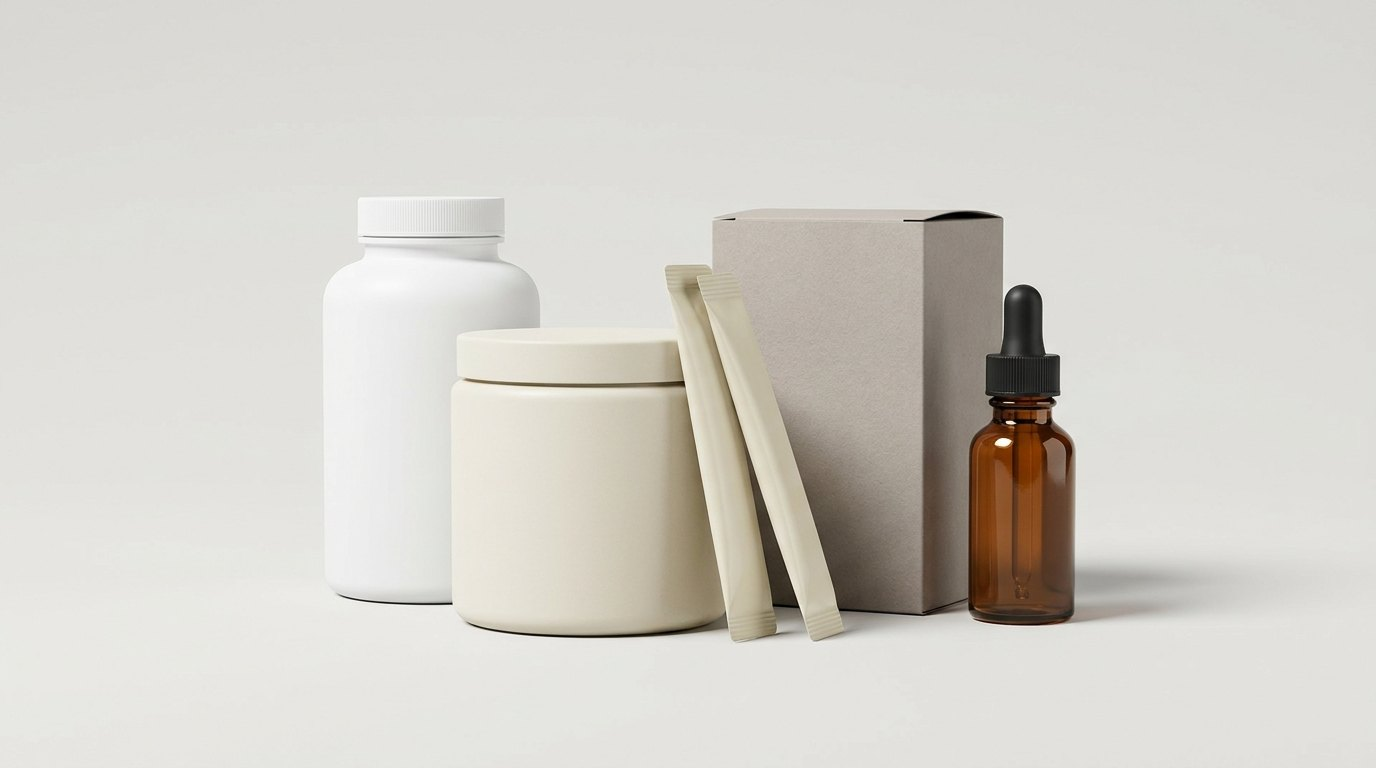
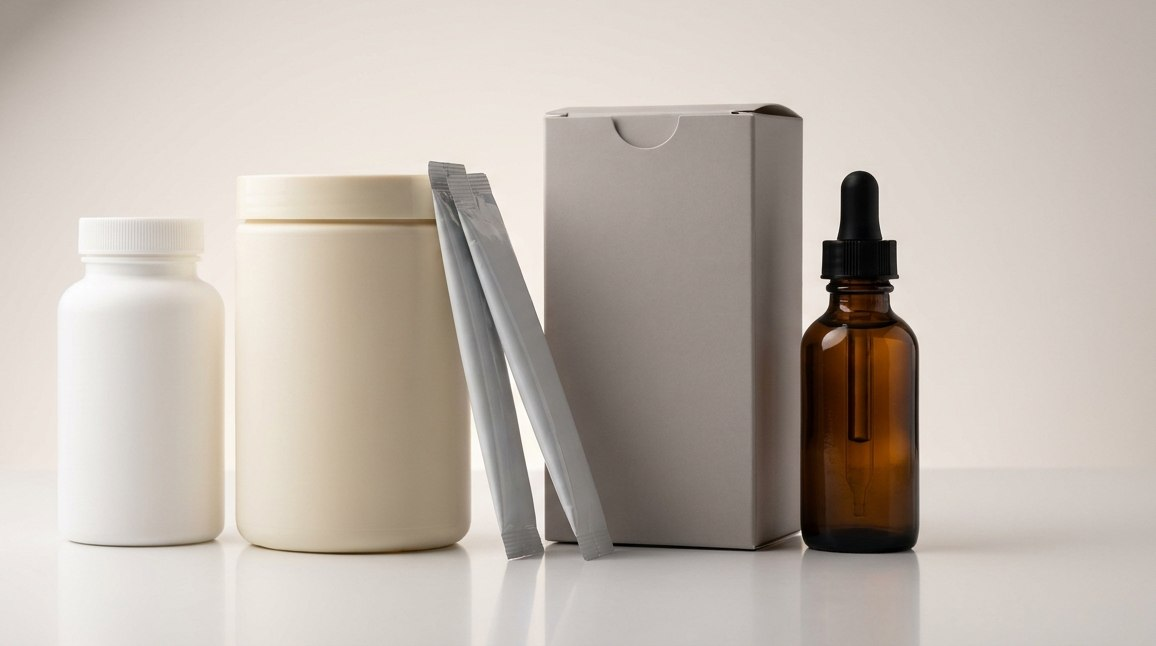
Full audit: facts, journey, redundancy, imagery
FACTS. Three problems found by checking every chip against the source
spec and removed:
- '1 oz 76mm pipette' and '2 oz 91mm pipette' were invented; no pipette
  dimensions exist in anything Namrata supplied.
- '20mm neck' and '28mm neck' came from Cary Company product pages she
  linked as SHAPE references for bullet bottles, not as F.A.M.E.
  specs; presenting them as our finishes was over-reach.
- Glass capsule bottles were listed as discrete 150/200/300/400cc when
  the spec states a 150cc to 400cc range; 200 and 300 were invented.
Also softened an inferred fulfilment-destination claim and pulled the
compliance line back to the sources' own wording.

JOURNEY. Labels sat after Assembly & tooling, contradicting the page's
own opening promise of Fill, Label, Kit. Labels is now 05 and
Assembly & tooling 06, so the page follows the order it announces.
Background alternation rebalanced across the new order.

REDUNDANCY. The page carried two three-step journeys: section 01 and
a second one inside Labels. The Labels sequence loses its step
numbering and paragraphs and becomes a plain visual, blank bottle to
labeled to retail-ready.

IMAGERY. Core studio set reshot with real photographic craft:
luminous gradient backdrops, rim light separating each object,
genuine refraction in the cobalt and amber glass, foil sheen on sticks
and sachets, shallow depth of field. Visible softboxes cropped from
three frames and the bottle lineup re-rolled with caps on. New URLs
[…]

diff --git a/packaging/index.html b/packaging/index.html
@@ -284,13 +284,13 @@ a{color:inherit;} :focus-visible{outline:2px solid var(--teal);outline-offset:3p
   <a href="#formats"><span style="color:var(--teal-deep);margin-right:.5em">02</span>Formats</a>
   <a href="#custom"><span style="color:var(--teal-deep);margin-right:.5em">03</span>Go Custom</a>
   <a href="#concepts"><span style="color:var(--teal-deep);margin-right:.5em">04</span>Concepts</a>
-  <a href="#services"><span style="color:var(--teal-deep);margin-right:.5em">05</span>Assembly &amp; Tooling</a>
-  <a href="#labels"><span style="color:var(--teal-deep);margin-right:.5em">06</span>Labels</a>
+  <a href="#labels"><span style="color:var(--teal-deep);margin-right:.5em">05</span>Labels</a>
+  <a href="#services"><span style="color:var(--teal-deep);margin-right:.5em">06</span>Assembly &amp; Tooling</a>
   <a href="#next"><span style="color:var(--teal-deep);margin-right:.5em">07</span>Next Step</a>
 </div></nav>
 
 <section class="coverhero">
-  <img src="../img/sd-hero.jpg" alt="Unbranded supplement packaging arranged in a studio">
+  <img src="../img/sd-hero.jpg?v=3" alt="Unbranded supplement packaging arranged in a studio">
   <div class="ch-ov"></div>
   <div class="ch-cap">
     <div class="wrap">
@@ -322,8 +322,8 @@ a{color:inherit;} :focus-visible{outline:2px solid var(--teal);outline-offset:3p
     </div>
     <div class="steps">
       <div class="step"><span class="sn num">01</span><h3 class="h3">Fill &amp; seal</h3><p class="body">Six stock formats and custom molds, filled to your count in capsules, tablets, gummies, powders or liquids. Induction-sealed as standard: tamper-evident and leakproof, with pour-on lids and flip-tops where the product suits them.</p></div>
-      <div class="step"><span class="sn num">02</span><h3 class="h3">Label &amp; check</h3><p class="body">Print-ready artwork from you, or built with our design team. Supplement Facts panel, allergen statements and claim wording are reviewed against labeling rules before anything prints.</p></div>
-      <div class="step"><span class="sn num">03</span><h3 class="h3">Kit &amp; ship</h3><p class="body">Cartons, printed inserts and multi-pack kits assembled, then fulfilled to retail, marketplace or your own warehouse, on one purchase order.</p></div>
+      <div class="step"><span class="sn num">02</span><h3 class="h3">Label &amp; check</h3><p class="body">Print-ready artwork from you, or built with our design team. Panels are reviewed against supplement labeling requirements before anything prints.</p></div>
+      <div class="step"><span class="sn num">03</span><h3 class="h3">Kit &amp; ship</h3><p class="body">Cartons, printed inserts and multi-pack kits assembled, then fulfilled, on one purchase order.</p></div>
     </div>
   </div>
 </section>
@@ -338,11 +338,11 @@ a{color:inherit;} :focus-visible{outline:2px solid var(--teal);outline-offset:3p
 
     <div>
       <div class="ftabs" role="tablist" aria-label="Packaging formats" id="ftabs">
-        <button class="ftab" role="tab" aria-selected="true" data-f="bottles"><img src="../img/sd-bottles-color.jpg" alt="Supplement bottles in the stock colour range"><span>Bottles</span></button>
-        <button class="ftab" role="tab" aria-selected="false" data-f="liquids"><img src="../img/sd-liquids.jpg" alt="Amber glass dropper bottles and a white bullet bottle"><span>Liquids</span></button>
-        <button class="ftab" role="tab" aria-selected="false" data-f="jars"><img src="../img/sd-jars.jpg" alt="Supplement powder jars in ascending sizes"><span>Jars</span></button>
-        <button class="ftab" role="tab" aria-selected="false" data-f="sticks"><img src="../img/sd-sticks.jpg" alt="Powder stick packs in a diagonal row"><span>Stick packs</span></button>
-        <button class="ftab" role="tab" aria-selected="false" data-f="sachets"><img src="../img/sd-sachets.jpg" alt="Square sachet packets in an offset grid"><span>Sachets</span></button>
+        <button class="ftab" role="tab" aria-selected="true" data-f="bottles"><img src="../img/sd-bottles-color.jpg?v=3" alt="Supplement bottles in the stock colour range"><span>Bottles</span></button>
+        <button class="ftab" role="tab" aria-selected="false" data-f="liquids"><img src="../img/sd-liquids.jpg?v=3" alt="Amber glass dropper bottles and a white bullet bottle"><span>Liquids</span></button>
+        <button class="ftab" role="tab" aria-selected="false" data-f="jars"><img src="../img/sd-jars.jpg?v=3" alt="Supplement powder jars in ascending sizes"><span>Jars</span></button>
+        <button class="ftab" role="tab" aria-selected="false" data-f="sticks"><img src="../img/sd-sticks.jpg?v=3" alt="Powder stick packs in a diagonal row"><span>Stick packs</span></button>
+        <button class="ftab" role="tab" aria-selected="false" data-f="sachets"><img src="../img/sd-sachets.jpg?v=3" alt="Square sachet packets in an offset grid"><span>Sachets</span></button>
         <button class="ftab" role="tab" aria-selected="false" data-f="pouches"><img src="../img/sd-pouches.jpg" alt="Stand-up pouches with capsules"><span>Pouches</span></button>
       </div>
 
@@ -371,7 +371,7 @@ a{color:inherit;} :focus-visible{outline:2px solid var(--teal);outline-offset:3p
               </div>
             </div>
             <div><span class="spec-k" style="color:var(--muted)">Glass capsule bottles</span>
-              <div class="chips" style="margin-top:8px"><span class="chip hot">150cc</span><span class="chip hot">200cc</span><span class="chip hot">300cc</span><span class="chip hot">400cc</span></div>
+              <div class="chips" style="margin-top:8px"><span class="chip hot">150cc &#8211; 400cc</span></div>
               <p class="small" style="margin-top:8px">Amber, blue and transparent; frosted sourceable.</p>
             </div>
             <p class="specnote">Closures: cap with induction seal as standard, sealed, leakproof and tamper-evident. Pour-on lids and flip-tops where the product suits them. Lids ribbed or smooth-top, white or black; lid sizes vary with bottle size.</p>
@@ -398,7 +398,7 @@ a{color:inherit;} :focus-visible{outline:2px solid var(--teal);outline-offset:3p
             <p class="body" style="margin:0">Small-volume liquids run in pure glass droppers; larger volumes run in HDPE bullets. PET is deliberately not used for dropper applications.</p>
             <div><span class="spec-k" style="color:var(--muted)">Glass droppers</span>
               <div class="chips" style="margin-top:8px">
-                <span class="chip hot">1/2 oz</span><span class="chip hot">1 oz &#183; 76mm pipette</span><span class="chip hot">2 oz &#183; 91mm pipette</span><span class="chip hot">4 oz</span>
+                <span class="chip hot">1/2 oz</span><span class="chip hot">1 oz</span><span class="chip hot">2 oz</span><span class="chip hot">4 oz</span>
               </div>
             </div>
             <div><span class="spec-k" style="color:var(--muted)">Glass colors</span>
@@ -411,7 +411,7 @@ a{color:inherit;} :focus-visible{outline:2px solid var(--teal);outline-offset:3p
             </div>
             <div><span class="spec-k" style="color:var(--muted)">HDPE bullets</span>
               <div class="chips" style="margin-top:8px">
-                <span class="chip">1 oz &#8211; 32 oz range</span><span class="chip hot">2 oz bullet &#183; 20mm neck</span><span class="chip hot">16 oz regular</span><span class="chip hot">32 oz bullet &#183; 28mm neck</span>
+                <span class="chip">1 oz &#8211; 32 oz range</span><span class="chip hot">2 oz bullet</span><span class="chip hot">16 oz</span><span class="chip hot">32 oz</span>
               </div>
             </div>
             <p class="specnote">Styles: Boston round and bullet, including the specialized 2 oz bullet. Closures: cap with induction seal as standard, sealed, leakproof and tamper-evident. Pour-on lids and flip-tops sourceable.</p>
@@ -557,39 +557,20 @@ a{color:inherit;} :focus-visible{outline:2px solid var(--teal);outline-offset:3p
   </div>
 </section>
 
-<!-- 05 SERVICES -->
-<section class="sec" id="services">
-  <div class="wrap stack">
-    <div class="sec-head">
-      <div><span class="lab">05 &#183; What we do with it</span><h2 class="h2">Assembly, sourcing and tooling.</h2></div>
-      <p class="body">The parts of packaging that usually mean finding a second vendor.</p>
-    </div>
-
-    <div class="grid g4">
-      <div class="cellbox"><span class="lab">Custom kitting</span><div class="h4">5 to 30 packs per kit</div><p class="small">Multi-component kits: packs or travel cylinders boxed together with your printed inserts.</p></div>
-      <div class="cellbox tint"><span class="lab">Sourcing</span><div class="h4">We find it, you brand it</div><p class="small">Specialist components sourced for you rather than supplied by you: a particular bottle style, frosted glass, an unusual color. You should not have to run a procurement project to launch a SKU.</p></div>
-      <div class="cellbox"><span class="lab">Custom tooling</span><div class="h4">Widths 1.5&#8221;&#8211;4&#8221;, built for you</div><p class="small">Forming widths between 1.5&#8221; and 4&#8221; for stick packs and sachets. A one-time cost that only pays back at volume, and we will tell you when your run is too small to justify it.</p></div>
-      <div class="cellbox tint"><span class="lab">Eco-conscious</span><div class="h4">Recycled &amp; recyclable first</div><p class="small">Recycled and recyclable materials prioritized across the line.</p></div>
-    </div>
-
-  </div>
-</section>
-
-<!-- 05 LABELS -->
 <section class="sec alt" id="labels">
   <div class="wrap stack">
     <div class="sec-head">
-      <div><span class="lab">06 &#183; Labels</span><h2 class="h2">Your label, start to finish.</h2></div>
+      <div><span class="lab">05 &#183; Labels</span><h2 class="h2">Your label, start to finish.</h2></div>
       <p class="body">Bring finished artwork or start from nothing. Either way the label is printed, applied and checked here.</p>
     </div>
 
     <div class="imgcards">
       <div class="icard"><div class="fig"><img src="../img/sd-lbl-blank.jpg" alt="A blank unlabeled white supplement bottle"></div>
-        <div class="cap"><span class="lab">Step 1</span><div class="h4">Select the container</div><p class="small">Choose from the stock bottles, jars and formats above.</p></div></div>
+        <div class="cap"><div class="h4">Blank stock bottle</div></div></div>
       <div class="icard"><div class="fig"><img src="../img/sd-lbl-labeled.jpg" alt="The same bottle wearing a finished wraparound label"></div>
-        <div class="cap"><span class="lab">Step 2</span><div class="h4">Design the label</div><p class="small">Bring finished artwork, or start from nothing. Both routes are below.</p></div></div>
+        <div class="cap"><div class="h4">Your label, applied</div></div></div>
       <div class="icard"><div class="fig"><img src="../img/sd-lbl-retail.jpg" alt="The labeled bottle beside its carton and printed insert"></div>
-        <div class="cap"><span class="lab">Step 3</span><div class="h4">Printed, applied, launched</div><p class="small">Printed on site, applied and inspected as it fills, then boxed with your inserts.</p></div></div>
+        <div class="cap"><div class="h4">Boxed and retail-ready</div></div></div>
     </div>
 
     <div class="routes">
@@ -617,8 +598,27 @@ a{color:inherit;} :focus-visible{outline:2px solid var(--teal);outline-offset:3p
   </div>
 </section>
 
+<!-- 05 LABELS -->
+<!-- 05 SERVICES -->
+<section class="sec" id="services">
+  <div class="wrap stack">
+    <div class="sec-head">
+      <div><span class="lab">06 &#183; Assembly &amp; tooling</span><h2 class="h2">Assembly, sourcing and tooling.</h2></div>
+      <p class="body">The parts of packaging that usually mean finding a second vendor.</p>
+    </div>
+
+    <div class="grid g4">
+      <div class="cellbox"><span class="lab">Custom kitting</span><div class="h4">5 to 30 packs per kit</div><p class="small">Multi-component kits: packs or travel cylinders boxed together with your printed inserts.</p></div>
+      <div class="cellbox tint"><span class="lab">Sourcing</span><div class="h4">We find it, you brand it</div><p class="small">Specialist components sourced for you rather than supplied by you: a particular bottle style, frosted glass, an unusual color. You should not have to run a procurement project to launch a SKU.</p></div>
+      <div class="cellbox"><span class="lab">Custom tooling</span><div class="h4">Widths 1.5&#8221;&#8211;4&#8221;, built for you</div><p class="small">Forming widths between 1.5&#8221; and 4&#8221; for stick packs and sachets. A one-time cost that only pays back at volume, and we will tell you when your run is too small to justify it.</p></div>
+      <div class="cellbox tint"><span class="lab">Eco-conscious</span><div class="h4">Recycled &amp; recyclable first</div><p class="small">Recycled and recyclable materials prioritized across the line.</p></div>
+    </div>
+
+  </div>
+</section>
+
 <!-- 07 BACK TO THE DECK -->
-<section class="sec" id="next">
+<section class="sec alt" id="next">
   <div class="wrap stack">
     <div class="sec-head">
       <div><span class="lab">07 &#183; Next step</span><h2 class="h2">Packaging is one chapter. The deck has the rest.</h2></div>
